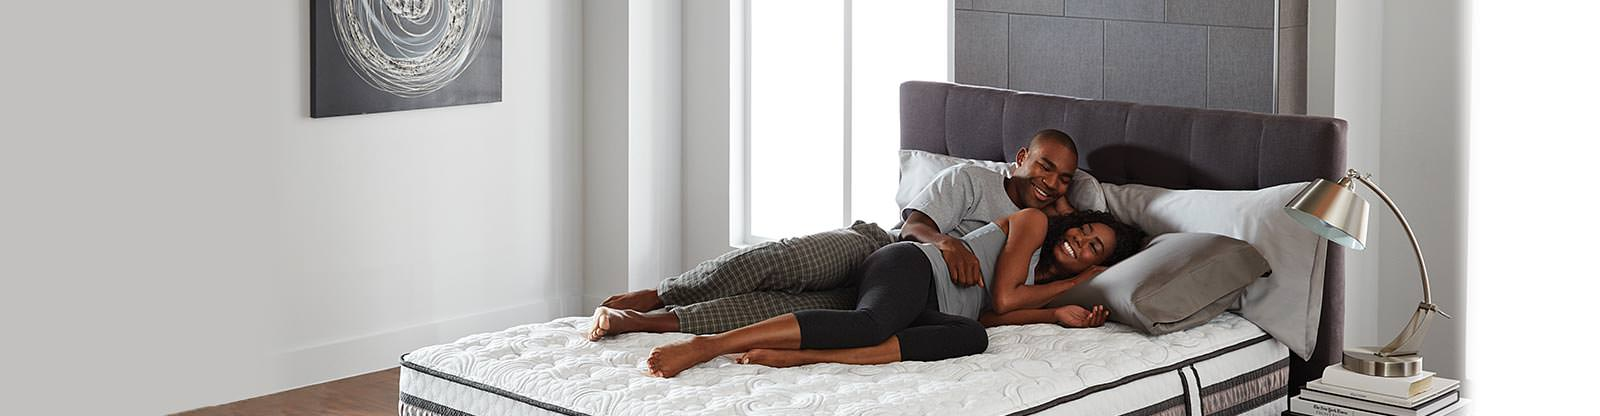
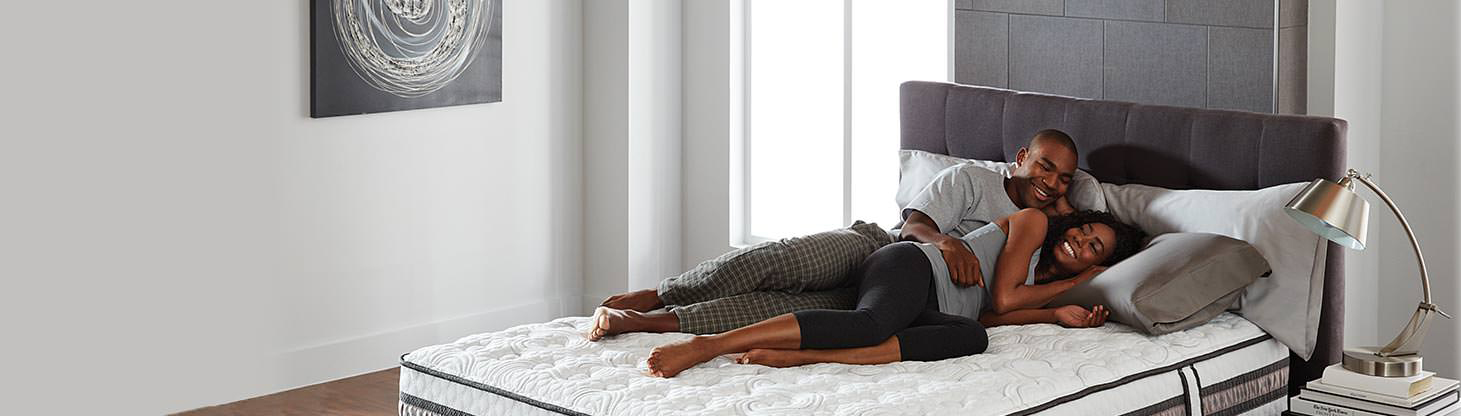
resize hero image

diff --git a/sample.html b/sample.html
@@ -3,87 +3,91 @@
 
 <head>
     <title></title>
-    <link rel="stylesheet" href="https://maxcdn.bootstrapcdn.com/bootstrap/3.3.7/css/bootstrap.min.css" integrity="sha384-BVYiiSIFeK1dGmJRAkycuHAHRg32OmUcww7on3RYdg4Va+PmSTsz/K68vbdEjh4u"
-        crossorigin="anonymous">
+   <!-- Latest compiled and minified CSS -->
+<link rel="stylesheet" href="https://maxcdn.bootstrapcdn.com/bootstrap/3.3.7/css/bootstrap.min.css" integrity="sha384-BVYiiSIFeK1dGmJRAkycuHAHRg32OmUcww7on3RYdg4Va+PmSTsz/K68vbdEjh4u" crossorigin="anonymous">
     <link href="https://fonts.googleapis.com/css?family=Lato:300,400,700" rel="stylesheet" type="text/css">
     <link rel="stylesheet" href="styles.css">
 </head>
 
 <body>
+        <div class="container-fluid">
+            <div class = "img-width">
     <!-- Hero Image -->
-    <img src="C:\Users\sahaj\Desktop\Tagrem-master\materials\images\banner.jpg" />
+    <img class="img-responsive" src="C:\Users\sahaj\Desktop\Tagrem-master\materials\images\banner.jpg" />
+    </div>
+</div>
     <!-- Header Content title-->
     <div class="container-fluid">
-    <div class="row">
-            <div class="col-md-8">    
-    <h1>In Gravida Libero</h1>
-    <!-- Header Content -->
-    <p class="header-content">Lorem ipsum dolor sit amet, consectetur adipiscing elit. Integer enim neque, molestie ut placerat id, tincidunt in sem.
-        Pellentesque sodales lobortis eros nec pulvinar. In ac ultrices ipsum, ultricies semper nisi. Morbi ac hendrerit
-        nulla. Sed nec ex commodo, tincidunt felis ac, iaculis ipsum.</p>
-    <p class="header-content">Morbi ac hendrerit nulla. Sed nec ex commodo, tincidunt felis ac, iaculis ipsum</p>
+        <div class="row">
+            <div class="col-md-8">
+                <h1>In Gravida Libero</h1>
+                <!-- Header Content -->
+                <p class="header-content">Lorem ipsum dolor sit amet, consectetur adipiscing elit. Integer enim neque, molestie ut placerat id, tincidunt
+                    in sem. Pellentesque sodales lobortis eros nec pulvinar. In ac ultrices ipsum, ultricies semper nisi.
+                    Morbi ac hendrerit nulla. Sed nec ex commodo, tincidunt felis ac, iaculis ipsum.</p>
+                <p class="header-content">Morbi ac hendrerit nulla. Sed nec ex commodo, tincidunt felis ac, iaculis ipsum</p>
+            </div>
+            <!-- State Finder Container -->
+            <div class="col-md-4">
+                <h2>State Finder</h2>
+                <select>
+                    <option value="">Select State</option>
+                    <option value="AL">Alabama</option>
+                    <option value="AK">Alaska</option>
+                    <option value="AZ">Arizona</option>
+                    <option value="AR">Arkansas</option>
+                    <option value="CA">California</option>
+                    <option value="CO">Colorado</option>
+                    <option value="CT">Connecticut</option>
+                    <option value="DE">Delaware</option>
+                    <option value="DC">District Of Columbia</option>
+                    <option value="FL">Florida</option>
+                    <option value="GA">Georgia</option>
+                    <option value="HI">Hawaii</option>
+                    <option value="ID">Idaho</option>
+                    <option value="IL">Illinois</option>
+                    <option value="IN">Indiana</option>
+                    <option value="IA">Iowa</option>
+                    <option value="KS">Kansas</option>
+                    <option value="KY">Kentucky</option>
+                    <option value="LA">Louisiana</option>
+                    <option value="ME">Maine</option>
+                    <option value="MD">Maryland</option>
+                    <option value="MA">Massachusetts</option>
+                    <option value="MI">Michigan</option>
+                    <option value="MN">Minnesota</option>
+                    <option value="MS">Mississippi</option>
+                    <option value="MO">Missouri</option>
+                    <option value="MT">Montana</option>
+                    <option value="NE">Nebraska</option>
+                    <option value="NV">Nevada</option>
+                    <option value="NH">New Hampshire</option>
+                    <option value="NJ">New Jersey</option>
+                    <option value="NM">New Mexico</option>
+                    <option value="NY">New York</option>
+                    <option value="NC">North Carolina</option>
+                    <option value="ND">North Dakota</option>
+                    <option value="OH">Ohio</option>
+                    <option value="OK">Oklahoma</option>
+                    <option value="OR">Oregon</option>
+                    <option value="PA">Pennsylvania</option>
+                    <option value="RI">Rhode Island</option>
+                    <option value="SC">South Carolina</option>
+                    <option value="SD">South Dakota</option>
+                    <option value="TN">Tennessee</option>
+                    <option value="TX">Texas</option>
+                    <option value="UT">Utah</option>
+                    <option value="VT">Vermont</option>
+                    <option value="VA">Virginia</option>
+                    <option value="WA">Washington</option>
+                    <option value="WV">West Virginia</option>
+                    <option value="WI">Wisconsin</option>
+                    <option value="WY">Wyoming</option>
+                </select>
+                <button type="submit">Submit</button>
+            </div>
+        </div>
     </div>
-    <!-- State Finder Container -->
-    <div class="col-md-4">   
-    <h2>State Finder</h2>
-    <select>
-        <option value="">Select State</option>
-        <option value="AL">Alabama</option>
-        <option value="AK">Alaska</option>
-        <option value="AZ">Arizona</option>
-        <option value="AR">Arkansas</option>
-        <option value="CA">California</option>
-        <option value="CO">Colorado</option>
-        <option value="CT">Connecticut</option>
-        <option value="DE">Delaware</option>
-        <option value="DC">District Of Columbia</option>
-        <option value="FL">Florida</option>
-        <option value="GA">Georgia</option>
-        <option value="HI">Hawaii</option>
-        <option value="ID">Idaho</option>
-        <option value="IL">Illinois</option>
-        <option value="IN">Indiana</option>
-        <option value="IA">Iowa</option>
-        <option value="KS">Kansas</option>
-        <option value="KY">Kentucky</option>
-        <option value="LA">Louisiana</option>
-        <option value="ME">Maine</option>
-        <option value="MD">Maryland</option>
-        <option value="MA">Massachusetts</option>
-        <option value="MI">Michigan</option>
-        <option value="MN">Minnesota</option>
-        <option value="MS">Mississippi</option>
-        <option value="MO">Missouri</option>
-        <option value="MT">Montana</option>
-        <option value="NE">Nebraska</option>
-        <option value="NV">Nevada</option>
-        <option value="NH">New Hampshire</option>
-        <option value="NJ">New Jersey</option>
-        <option value="NM">New Mexico</option>
-        <option value="NY">New York</option>
-        <option value="NC">North Carolina</option>
-        <option value="ND">North Dakota</option>
-        <option value="OH">Ohio</option>
-        <option value="OK">Oklahoma</option>
-        <option value="OR">Oregon</option>
-        <option value="PA">Pennsylvania</option>
-        <option value="RI">Rhode Island</option>
-        <option value="SC">South Carolina</option>
-        <option value="SD">South Dakota</option>
-        <option value="TN">Tennessee</option>
-        <option value="TX">Texas</option>
-        <option value="UT">Utah</option>
-        <option value="VT">Vermont</option>
-        <option value="VA">Virginia</option>
-        <option value="WA">Washington</option>
-        <option value="WV">West Virginia</option>
-        <option value="WI">Wisconsin</option>
-        <option value="WY">Wyoming</option>
-    </select>
-    <button type="submit">Submit</button>
-    </div>   
-</div>
-</div>
     <!-- Second div title -->
     <div class="container-fluid">
         <h2>In Gravida</h2>
@@ -109,81 +113,89 @@
         </div>
         <!-- second div 2nd row -->
         <div class="row">
-                <div class="col-md-4">
-        <h3>Morbi placerat </h3>
-        <p> Nam feugiat ultrices ligula eget faucibus. Mauris convallis ipsum est.</p>
-        <a>Learn More</a>
+            <div class="col-md-4">
+                <h3>Morbi placerat </h3>
+                <p> Nam feugiat ultrices ligula eget faucibus. Mauris convallis ipsum est.</p>
+                <a>Learn More</a>
+            </div>
+            <div class="col-md-4">
+                <h3>Suspendisse eu</h3>
+                <p>Duis pretium elementum dui, id feugiat neque facilisis vel.</p>
+                <a>Learn More</a>
+            </div>
+            <div class="col-md-4">
+                <h3> Integer faucibus</h3>
+                <p> Vivamus at rutrum est, eu pellentesque lacus. Curabitur imperdiet tortor sit amet enim ullamcorper, a aliquet
+                    odio rutrum.
+                </p>
+                <a>Learn More</a>
+            </div>
         </div>
-        <div class="col-md-4">
-        <h3>Suspendisse eu</h3>
-        <p>Duis pretium elementum dui, id feugiat neque facilisis vel.</p>
-        <a>Learn More</a>
-    </div>
-    <div class="col-md-4">
-        <h3> Integer faucibus</h3>
-        <p> Vivamus at rutrum est, eu pellentesque lacus. Curabitur imperdiet tortor sit amet enim ullamcorper, a aliquet odio
-            rutrum.</p>
-        <a>Learn More</a>
-    </div>
-    </div>
     </div>
     <!-- third div title -->
     <div class="container-fluid">
-    <h2>Products</h2>
-    <!-- third div filter feature -->
-    Fitler by
-    <select>
-        <option>All</option>
-        <option>Less Than $500</option>
-        <option>From $500 to $1000</option>
-        <option>From $1000 to $2000</option>
-        <option>$2000 or more</option>
-    </select>
-    <!-- third div card row -->
-    <div class = "row">
-       
-    <ul>
-        <!-- third row 1st card -->
-        <div class="col-md-3">
-        <li>
-            Product Title 1
-            <br> Starting at $500
-            <br> Lorem ipsum dolor sit amet, consectetur adipiscing elit.
-            <br>
-            <!-- <img src="C:\Users\sahaj\Desktop\Tagrem-master\materials\images\cereal_b.jpg"/> -->
-            <a>Learn More</a>
-        </li>
+        <div class="row">
+            <div class="col-md-8">
+                <h2>Products</h2>
+            </div>
+            <!-- third div filter feature -->
+            <div class="col-md-4">
+                Fitler by
+                <select>
+                    <option>All</option>
+                    <option>Less Than $500</option>
+                    <option>From $500 to $1000</option>
+                    <option>From $1000 to $2000</option>
+                    <option>$2000 or more</option>
+                </select>
+            </div>
         </div>
-        <!-- third row 2nd card -->
-        <div class="col-md-3">
-        <li>
-            Product Title 2
-            <br> Starting at 1900
-            <br> Donec ornare magna sit amet erat molestie sollicitudin ac vitae lectus.</br>
-            <a>Learn More</a>
-        </li>
+        <!-- third div card row -->
+
+        <ul>
+            <div class="row">
+                <!-- third row 1st card -->
+                <div class="col-md-3">
+                    <li>
+                        Product Title 1
+                        <br> Starting at $500
+                        <br> Lorem ipsum dolor sit amet, consectetur adipiscing elit.
+                        <br>
+                        <!-- <img src="C:\Users\sahaj\Desktop\Tagrem-master\materials\images\cereal_b.jpg"/> -->
+                        <a>Learn More</a>
+                    </li>
+                </div>
+                <!-- third row 2nd card -->
+                <div class="col-md-3">
+                    <li>
+                        Product Title 2
+                        <br> Starting at 1900
+                        <br> Donec ornare magna sit amet erat molestie sollicitudin ac vitae lectus.</br>
+                        <a>Learn More</a>
+                    </li>
+                </div>
+                <!-- third row 3rd card -->
+                <div class="col-md-3">
+                    <li>
+                        Product Title 3
+                        <br> Starting at 1900
+                        <br> Cras non metus sed odio tristique imperdiet.</br>
+                        <a>Learn More</a>
+                    </li>
+                </div>
+                <!-- third row 4th card -->
+                <div class="col-md-3">
+                    <li>
+                        Product Title 4
+                        <br> Starting at 1900
+                        <br> Pellentesque mattis tellus ut molestie dapibus.</br>
+                        <a>Learn More</a>
+                    </li>
+
+        </ul>
         </div>
-        <!-- third row 3rd card -->
-        <div class="col-md-3">
-        <li>
-            Product Title 3
-            <br> Starting at 1900
-            <br> Cras non metus sed odio tristique imperdiet.</br>
-            <a>Learn More</a>
-        </li>
         </div>
-        <!-- third row 4th card -->
-        <div class="col-md-3">
-        <li>
-            Product Title 4
-            <br> Starting at 1900
-            <br> Pellentesque mattis tellus ut molestie dapibus.</br>
-            <a>Learn More</a>
-        </li>
     </div>
-    </ul>
-</div>
-</div>
     <!-- third div product module content in detail -->
     <script type="text/javascript">
         window.products = {
@@ -231,9 +243,8 @@
         }
 
     </script>
-    <script src="https://ajax.googleapis.com/ajax/libs/jquery/1.12.4/jquery.min.js"></script>
-    <script src="https://maxcdn.bootstrapcdn.com/bootstrap/3.3.7/js/bootstrap.min.js" integrity="sha384-Tc5IQib027qvyjSMfHjOMaLkfuWVxZxUPnCJA7l2mCWNIpG9mGCD8wGNIcPD7Txa"
-        crossorigin="anonymous"></script>
+     <script src="https://ajax.googleapis.com/ajax/libs/jquery/1.12.4/jquery.min.js"></script>
+        <script src="https://maxcdn.bootstrapcdn.com/bootstrap/3.3.7/js/bootstrap.min.js" integrity="sha384-Tc5IQib027qvyjSMfHjOMaLkfuWVxZxUPnCJA7l2mCWNIpG9mGCD8wGNIcPD7Txa" crossorigin="anonymous"></script>
 
 </body>
 

diff --git a/styles.css b/styles.css
@@ -36,3 +36,6 @@ h3 {
     font-size: 18px;
 }
 
+.img-width{
+    background-size: cover;
+}
